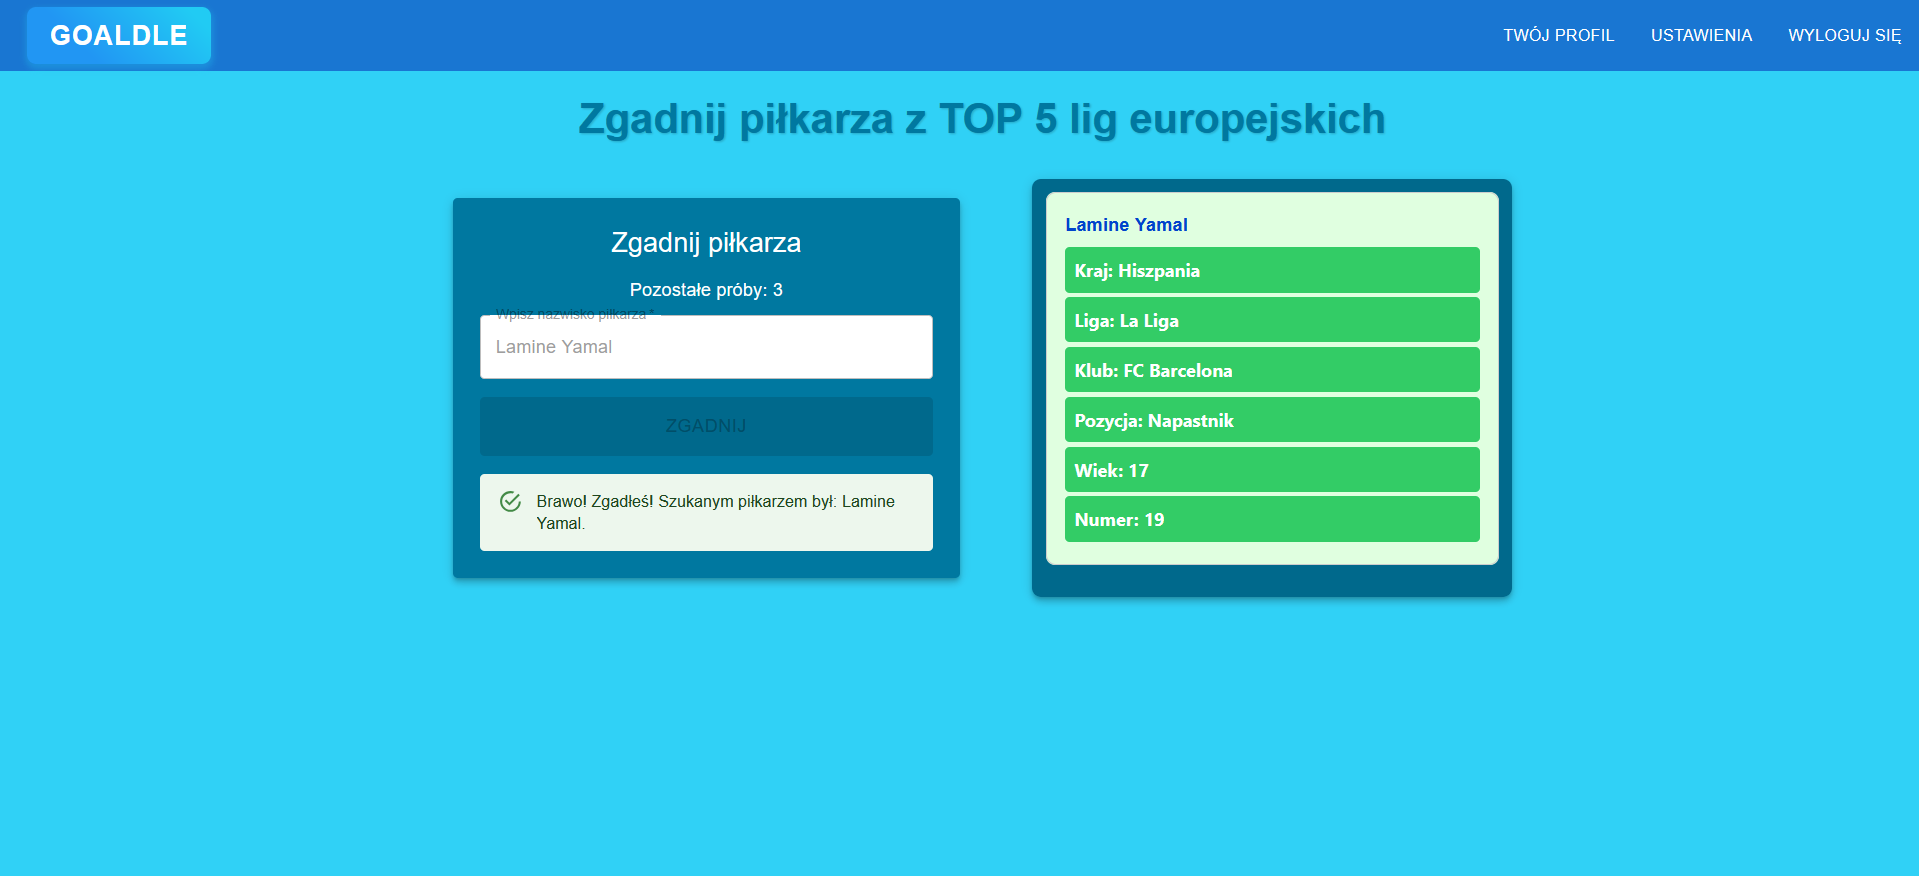
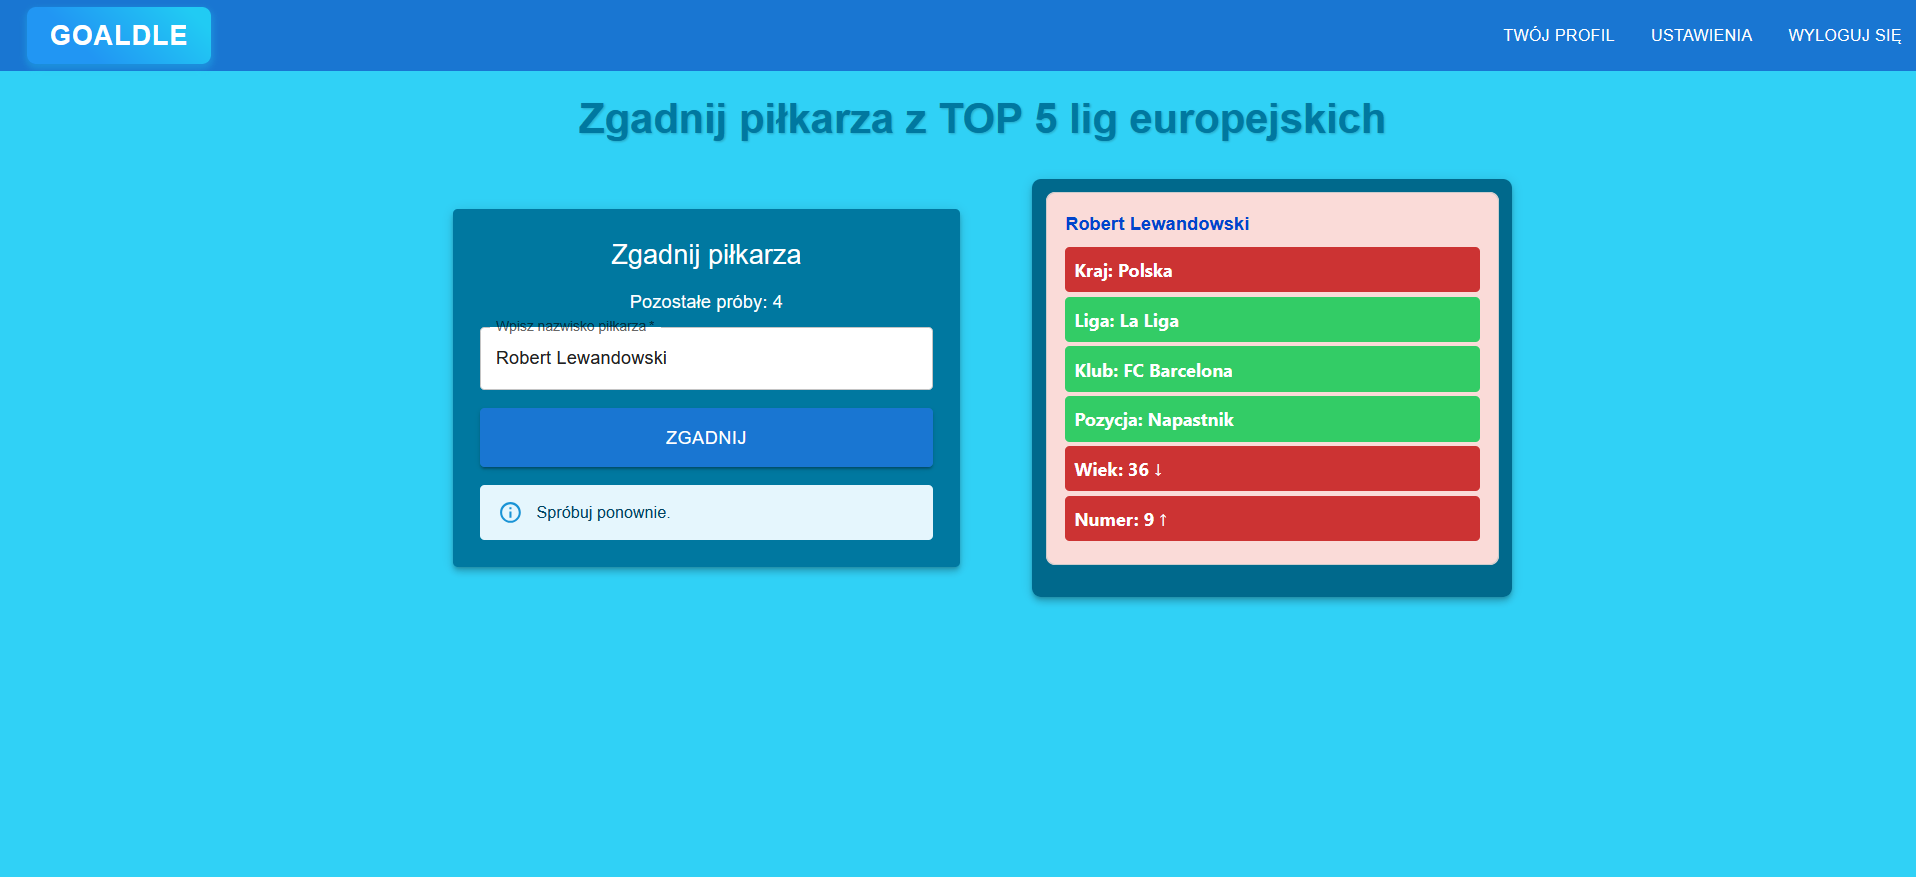
Updated README with new screenshots, added filtering/sorting description

diff --git a/README.md b/README.md
@@ -16,20 +16,21 @@
 
 ---
 
-## 2⃣ Strona główna ze wszystkimi opcjami i trybami quizów  
+## 2⃣ Strona główna ze wszystkimi opcjami, trybami quizów i listą piłkarzy z opcjami filtrowania i sortowania  
 ![Dashboard](ui-app/src/assets/dashboard.png)  
 
 ---
 
 ## 3⃣ Twój profil 
-Pokazuje datę założenia konta, osiągnięcia użytkownika oraz umożliwia zmianę zdjęcia profilowego  .
+Pokazuje datę założenia konta, osiągnięcia użytkownika oraz umożliwia zmianę zdjęcia profilowego.
 ![Profil](ui-app/src/assets/profil.png)  
 
 ---
 
 ## 4⃣ Panel Administratora 
 Umożliwiający przeglądanie i usuwanie użytkowników z bazy. 
-![Panel Administratora](ui-app/src/assets/admin.png)  
+![Panel Administratora](ui-app/src/assets/admin.png)
+![Panel Administratora](ui-app/src/assets/admin_2.png)    
 
 ---
 
@@ -43,12 +44,13 @@ Umożliwiają zmianę loginu i e-maila użytkownika oraz pozwalają na usunięci
 Tryb polega na odgadnięciu losowego piłkarza z TOP 5 lig europejskich.  
 Po wpisaniu nazwy piłkarza w oknie pojawiają się podpowiedzi, które atrybuty naszego piłkarza zgadzają się z piłkarzem do odgadnięcia.  
 ![Zgadnij Piłkarza](ui-app/src/assets/zgadnij.png)  
+![Zgadnij Piłkarza](ui-app/src/assets/zgadnij_2.png)
 
 ---
 
 ## 7⃣ Codzienny Tryb "Zgadnij Transfer"  
 Gracz musi odgadnąć piłkarza, który brał udział w transferze wyświetlonym na ekranie.  
-![Zgadnij Transfer](ui-app/src/assets/transfer.png) 
+![Zgadnij Transfer](ui-app/src/assets/transfer_2.png) 
 
 ---
 
@@ -63,9 +65,9 @@ Gracz musi odgadnąć piłkarza, który brał udział w transferze wyświetlonym
 
 # 🛠 **Technologie użyte w projekcie**
 
-✅ **FRONTEND: React** 
-✅ **BACKEND: Django**   
-✅ **BAZA DANYCH: PostgreSQL** 
+✅ **FRONTEND:** React  
+✅ **BACKEND:** Django  
+✅ **BAZA DANYCH:** PostgreSQL 
 
 ---
 
